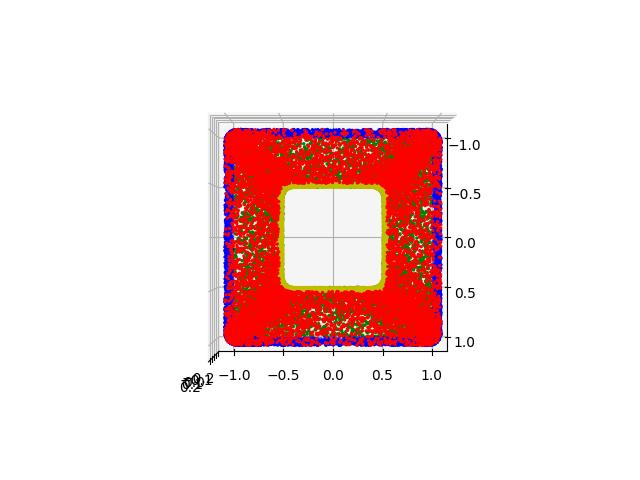
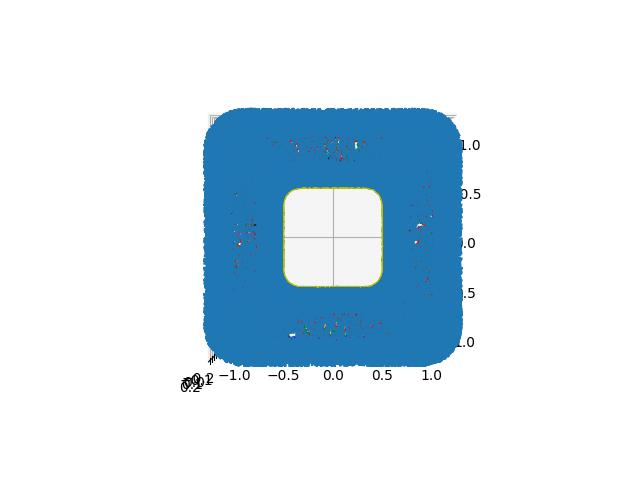
update

Changed region(s): [[0.3125, 0.2188, 0.75, 0.7812]]

diff --git a/magnetostatic_ring_3d.py b/magnetostatic_ring_3d.py
@@ -14,7 +14,7 @@ from jax.config import config
 config.update("jax_enable_x64", True)
 
 R = 0.5
-re = 0.2
+re = 0.32
 h = R
 flux = 1.0
 knots2d = np.array([ [[1-R,0],[1,0]] , [[1-R,1-R-re],[1,1-re]] , [[1-R,1-R],[1,1]] , [[1-R-re,1-R],[1-re,1]] , [[-1+R+re,1-R],[-1+re,1]] , [[-1+R,1-R],[-1,1]] , [[-1+R,1-R-re],[-1,1-re]] , [[-1+R,-1+R+re],[-1,-1+re]] , [[-1+R,-1+R],[-1,-1]] , [[-1+R+re,-1+R],[-1+re,-1]] , [[1-R-re,-1+R],[1-re,-1]] , [[1-R,-1+R],[1,-1]] , [[1-R,-1+R+re],[1,-1+re]] , [[1-R,0],[1,0]] ])
@@ -42,7 +42,7 @@ fig = plt.figure()
 ax = plt.axes(projection ="3d")
 ax.scatter3D(knots[...,0].flatten(), knots[...,1].flatten(), knots[...,2].flatten())
  
-x_in = geom.sample_inside(12000)
+x_in,w_in = geom.importance_sampling(12000)
 geom1 = geom[0.0,:,:]
 geom2 = geom[1.0,:,:]
 geom3 = geom[:,:,0.0]
@@ -51,10 +51,17 @@ x_bd1, x_bdn1 = geom1.importance_sampling(9000)
 x_bd2, x_bdn2 = geom2.importance_sampling(9000)
 x_bd3, x_bdn3 = geom3.importance_sampling(9000)
 x_bd4, x_bdn4 = geom4.importance_sampling(9000)
+surface = lambda vs: np.sum(np.sqrt(np.sum(vs**2,-1)))
+x_bdn1 /=surface(x_bdn1)
+x_bdn2 /=surface(x_bdn2)
+x_bdn3 /=surface(x_bdn3)*10
+x_bdn4 /=surface(x_bdn4)
 x_bd = np.concatenate((x_bd1, x_bd2, x_bd3, x_bd4), 0)
-x_bdn = np.concatenate((x_bdn1, x_bdn2, x_bdn3, x_bdn4), 0)
 
-xflux, vflux = geom[:,0.0,:].importance_sampling(10000)
+x_bdn = np.concatenate((x_bdn1, x_bdn2, x_bdn3, x_bdn4), 0)
+# x_bdn = pinns.geometry.normalize(x_bdn)
+
+xflux, vflux = geom[0.5,:,0.5].importance_sampling(10000)
 
 
 geom1 = geom[0.1,:,1.0]
@@ -65,7 +72,8 @@ ax.scatter3D(x_bd1[...,0].flatten(), x_bd1[...,1].flatten(), x_bd1[...,2].flatte
 ax.scatter3D(x_bd2[...,0].flatten(), x_bd2[...,1].flatten(), x_bd2[...,2].flatten(),s=2, c='g')
 ax.scatter3D(x_bd3[...,0].flatten(), x_bd3[...,1].flatten(), x_bd3[...,2].flatten(),s=2, c='b')
 ax.scatter3D(x_bd4[...,0].flatten(), x_bd4[...,1].flatten(), x_bd4[...,2].flatten(),s=2, c='y')
-# ax.quiver(x_bd3[...,0].flatten(), x_bd3[...,1].flatten(), x_bd3[...,2].flatten(),x_bdn3[...,0].flatten(), x_bdn3[...,1].flatten(), x_bdn3[...,2].flatten(), length = 0.2, normalize = True)
+ax.scatter3D(xflux[:,0],xflux[:,1],xflux[:,2], s= 2, c = 'k')
+ax.quiver(x_bd[...,0].flatten(), x_bd[...,1].flatten(), x_bd[...,2].flatten(),x_bdn[...,0].flatten(), x_bdn[...,1].flatten(), x_bdn[...,2].flatten(), length = 0.2, normalize = True)
 ax.view_init(90,0)
 plt.savefig('3dplot.jpg')
 
@@ -78,19 +86,19 @@ class Model(pinns.PINN):
         super().__init__()
         self.key = rand_key
         self.points = points
-        nl = 16
+        nl = 32
         activation = stax.Tanh #  stax.elementwise(lambda x: jnp.tanh(x)*x)
         block = stax.serial(stax.FanOut(2),stax.parallel(stax.serial(stax.Dense(nl), activation, stax.Dense(nl), activation),stax.Dense(nl)),stax.FanInSum)
         #self.add_neural_network('Az', stax.serial(stax.Dense(10), stax.Tanh, stax.Dense(10), stax.Tanh, stax.Dense(10), stax.Tanh, stax.Dense(10), stax.Tanh, stax.Dense(1)), (-1,2))
         #self.add_neural_network('H', stax.serial(stax.Dense(10), stax.Tanh, stax.Dense(10), stax.Tanh, stax.Dense(10), stax.Tanh, stax.Dense(10), stax.Tanh, stax.Dense(2)), (-1,2))
-        self.add_neural_network('B',stax.serial(block,block,block,block,block,block,block,block,stax.Dense(nl), activation,stax.Dense(3)),(-1,3))
+        self.add_neural_network('B',stax.serial(block,block,block,block,block,stax.Dense(nl), activation,stax.Dense(3)),(-1,3))
         #self.add_neural_network('H',stax.serial(stax.Dense(nl), stax.Tanh,block,block,block,block,block,block,stax.Dense(nl), stax.Tanh,stax.Dense(nl), stax.Tanh, stax.Dense(nl), stax.Tanh,stax.Dense(3)),(-1,3))
         
     def loss(self, ws):
         
         Bbd = jnp.sum(self.neural_networks['B'](ws['B'],self.points['pts_bd'])*self.points['normals'], -1)
         # Hbd = jnp.sum(self.neural_networks['H'](ws['H'],self.points['pts_bd'])*self.points['normals'], -1)
-        lbd_B = jnp.mean(Bbd**2)
+        lbd_B = jnp.sum(Bbd**2)
         # lbd_H = jnp.mean(Hbd**2)
         
         mu = 1
@@ -102,8 +110,8 @@ class Model(pinns.PINN):
         lpde1 = jnp.mean((pinns.operators.curl3d(lambda x: (1/mu)*self.neural_networks['B'](ws['B'],x))(model.points['pts_in']))**2)
         lpde2 = jnp.mean((pinns.operators.divergence(lambda x: self.neural_networks['B'](ws['B'],x))(model.points['pts_in']))**2)
         
-        lflux = (jnp.sum(self.neural_networks['B'](ws['B'],self.points['pts_flux'])*self.points['nflux'])-0.1)**2
-        return 1*(lpde1+lpde2)+10*lbd_B+10*lflux 
+        lflux = (jnp.sum(self.neural_networks['B'](ws['B'],self.points['pts_flux'])*self.points['nflux'])-1)**2
+        return 1*(lpde1+lpde2)+1000*lbd_B+10*lflux 
 
 rnd_key = jax.random.PRNGKey(123)
 
@@ -122,7 +130,7 @@ print('Starting optimization')
 tme = datetime.datetime.now()
 #results = jax.scipy.optimize.minimize(loss_grad, x0 = weights_vector, method = 'bfgs', options = {'maxiter': 10})
 #result = scipy.optimize.minimize(loss_grad, x0 = w0.to_py(), method = 'BFGS', jac = True, tol = 1e-8, options = {'disp' : True, 'maxiter' : 4000}, callback = lambda x: print(loss_compiled(x)))
-result = scipy.optimize.minimize(loss_grad, x0 = w0.to_py(), method = 'L-BFGS-B', jac = True, tol = 1e-9, options = {'disp' : True, 'maxiter' : 4000, 'iprint': 1})
+result = scipy.optimize.minimize(loss_grad, x0 = w0.to_py(), method = 'L-BFGS-B', jac = True, tol = 1e-9, options = {'disp' : True, 'maxiter' : 8000, 'iprint': 1})
 weights = model.weights_unravel(jnp.array(result.x))
 tme = datetime.datetime.now() - tme
 
@@ -147,7 +155,7 @@ ax = plt.axes(projection ="3d")
 ax.quiver(xyz[:,0].flatten(), xyz[:,1].flatten(), xyz[:,2].flatten(),B[:,0].flatten(), B[:,1].flatten(), B[:,2].flatten(),colors = plt.cm.jet(np.sqrt(np.sum(B**2,-1))),normalize = True, length = 0.1)
 plt.savefig('3dplot.jpg')
 
-x,y,z = np.meshgrid(np.array([0.5]),np.linspace(0,1,80),np.linspace(0,1,4))
+x,y,z = np.meshgrid(np.array([0.5]),np.linspace(0,1,80),np.linspace(0,1,8))
 xyz = geom(np.concatenate((x.flatten()[:,None],y.flatten()[:,None],z.flatten()[:,None]),1))
 
 B = model.neural_networks['B'](weights['B'], xyz)

diff --git a/magnetostatic_ring_2d_ritz.py b/magnetostatic_ring_2d_ritz.py
@@ -32,9 +32,9 @@ geom = pinns.geometry.PatchNURBS([basis1, basis2], knots, weights, None)
 plt.figure()
 plt.scatter(knots[:,:,0].flatten(),knots[:,:,1].flatten())
 
-x_in = geom.sample_inside(2000)
-x_bd1,_ = geom.sample_boundary(1,0,500)
-x_bd2,_ = geom.sample_boundary(1,1,500)
+x_in, ws_in = geom.importance_sampling(10000)
+x_bd1,_ = geom[:,0].importance_sampling(500)
+x_bd2,_ = geom[:,1].importance_sampling(500)
 
 plt.figure()
 plt.scatter(x_in[:,0],x_in[:,1],s=1,c='b')
@@ -53,7 +53,7 @@ class Model(pinns.PINN):
         #self.add_neural_network('Az', stax.serial(stax.Dense(nl), stax.Tanh, stax.Dense(nl), stax.Tanh, stax.Dense(nl), stax.Tanh, stax.Dense(nl), stax.Tanh, stax.Dense(1)), (-1,2))
         #self.add_neural_network('H', stax.serial(stax.Dense(nl), stax.Tanh, stax.Dense(nl), stax.Tanh, stax.Dense(nl), stax.Tanh, stax.Dense(nl), stax.Tanh, stax.Dense(2)), (-1,2))
         self.add_neural_network('Az',stax.serial(block(),block(),block(),block(),block(),block(),block(),block(),block(),block(),block(),block(),stax.Tanh,stax.Dense(1)),(-1,2))
-        self.add_neural_network('H',stax.serial(block(),block(),block(),block(),block(),block(),block(),block(),block(),block(),block(),block(),stax.Tanh,stax.Dense(2)),(-1,2))
+        # self.add_neural_network('H',stax.serial(block(),block(),block(),block(),block(),block(),block(),block(),block(),block(),block(),block(),stax.Tanh,stax.Dense(2)),(-1,2))
     
     def nu(self, B):
         x = B[:,0]**2+B[:,1]**2
@@ -65,21 +65,18 @@ class Model(pinns.PINN):
 
     def loss(self, ws):
         
-        lbd_in = (jnp.mean((self.neural_networks['Az'](ws['Az'], model.points['pts_bd_in'])[:,0] - 0)**2))
-        lbd_out = (jnp.mean((self.neural_networks['Az'](ws['Az'], model.points['pts_bd_out'])[:,0] - 1.0)**2))
+        lbd_in = (jnp.mean((self.neural_networks['Az'](ws['Az'], self.points['pts_bd_in'])[:,0] - 0)**2))
+        lbd_out = (jnp.mean((self.neural_networks['Az'](ws['Az'], self.points['pts_bd_out'])[:,0] - 1.0)**2))
         
+        grad = pinns.operators.gradient(lambda x : self.neural_networks['Az'](ws['Az'],x))(self.points['pts_in'])
+        nu = 1/3
+        lpde = 0.5*nu*jnp.sum(jnp.sum(grad*grad,-1)*self.points['ws_in'])
 
-        Mat = jnp.array([[0.0,1.0],[-1.0,0.0]])
-        B = pinns.operators.jacobian_modified(lambda x: self.neural_networks['Az'](ws['Az'],x),Mat)(model.points['pts_inside'])
-        lmaterial = jnp.mean((self.nu(B)*B-self.neural_networks['H'](ws['H'], model.points['pts_inside']))**2)
-        
-        lpde = jnp.mean((pinns.operators.curl2d(lambda x: self.neural_networks['H'](ws['H'],x))(model.points['pts_inside']))**2)
-        
-        return 1*lpde+lmaterial+10*lbd_in+10*lbd_out
+        return 1*lpde+10*lbd_in+10*lbd_out
 
 rnd_key = jax.random.PRNGKey(123)
 
-model = Model(rnd_key, {'pts_bd_in' : x_bd1, 'pts_bd_out' : x_bd2, 'pts_inside' : x_in})
+model = Model(rnd_key, {'pts_bd_in' : x_bd1, 'pts_bd_out' : x_bd2, 'pts_in' : x_in, 'ws_in' : ws_in})
 
 w0 = model.init_unravel()
 

diff --git a/quad_2d.py b/quad_2d.py
@@ -1,3 +1,5 @@
+from base64 import b16decode
+from sunau import AUDIO_FILE_ENCODING_ADPCM_G721
 import numpy as np
 import jax
 import jax.numpy as jnp
@@ -29,15 +31,25 @@ def create_geometry(key, scale = 1):
     blc = hi-hc                                                           
     rm = (Dc*Dc+hc*hc-ri*ri)/(Dc*np.sqrt(2)+hc*np.sqrt(2)-2*ri)                 
     R = rm-ri
-
+    O = np.array([rm/np.sqrt(2),rm/np.sqrt(2)])
+    alpha1 = -np.pi*3/4       
+    alpha2 = np.math.asin((hc-rm/np.sqrt(2))/R)
+    alpha = np.abs(alpha2-alpha1)
+    
+    A = np.array([[O[0] - ri/np.sqrt(2), O[1] - ri/np.sqrt(2)], [O[0] - Dc, O[1] - hc]])
+    b = np.array([[A[0,0]*ri/np.sqrt(2)+A[0,1]*ri/np.sqrt(2)],[A[1,0]*Dc+A[1,1]*hc]])
+    C = np.linalg.solve(A,b)
+    
     knots1 = np.array([[Do,0],[Do,Do * np.tan(np.pi/8)],[Do/np.sqrt(2),Do/np.sqrt(2)],[rm/np.sqrt(2),rm/np.sqrt(2)],[ri/np.sqrt(2),ri/np.sqrt(2)]])
     #knots2 = np.array([[Dc,hc],[Dc+blc,hi],[Di-bli,hi],[Di,hi-bli],[Di,0]])
     knots2 = np.array([[Di,0],[Di,hi-bli],[Di-bli,hi],[Dc+blc,hi],[Dc,hc]])
-    knots = np.concatenate((knots1[None,...],knots2[None,...]),0)
+    knots3 = (knots1+knots2)/2
+    knots3[-1,:] = C.flatten()
+    knots = np.concatenate((knots1[None,...],knots3[None,...],knots2[None,...]),0)
     weights = np.ones(knots.shape[:2])
-    
-    basis2 = pinns.bspline.BSplineBasis(np.linspace(0,1,4),1)
-    basis1 = pinns.bspline.BSplineBasis(np.array([0,1]),1)
+    weights[1,-1] = np.sin((np.pi-alpha)/2)
+    basis2 = pinns.bspline.BSplineBasis(np.linspace(0,1,5),1)
+    basis1 = pinns.bspline.BSplineBasis(np.array([0,1]),2)
 
     geom1 = pinns.geometry.PatchNURBS([basis1, basis2], knots, weights, key)
    
@@ -49,15 +61,28 @@ def create_geometry(key, scale = 1):
 
     geom2 = pinns.geometry.PatchNURBS([basis1, basis2], knots2, weights, key)
    
-    return  geom1, geom2, None 
+    knots = np.array([ [ [0,0] , [Dc/2,0] , [Dc,0] ] , [ [ri/np.sqrt(2),ri/np.sqrt(2)] , [C[0,0],C[1,0]] , [Dc,hc] ]])
+    
+    basis1 = pinns.bspline.BSplineBasis(np.linspace(0,1,2),1)
+    basis2 = pinns.bspline.BSplineBasis(np.array([0,1]),2)
+    
+    weights = np.ones(knots.shape[:2])
+    weights[1,1]
+    geom3 = pinns.geometry.PatchNURBS([basis1, basis2], knots, weights, key)
+     
+    return  geom1, geom2, geom3 
 
 geom1, geom2, geom3 = create_geometry(rnd_key)
 
-pts = geom2.sample_inside(10000)
+pts = geom2.sample_inside(1000)
 
 plt.figure()
 plt.scatter(pts[:,0], pts[:,1], s = 1)
 
-pts = geom1.sample_inside(10000)
+pts = geom1.sample_inside(1000)
+plt.scatter(pts[:,0],pts[:,1], s = 1)
+plt.show()
+
+pts = geom3.sample_inside(1000)
 plt.scatter(pts[:,0],pts[:,1], s = 1)
 plt.show()

diff --git a/pinns/geometry.py b/pinns/geometry.py
@@ -13,6 +13,20 @@ def tangent2normal_3d(tangents):
     result3 = tangents[...,0,0]*tangents[...,1,1]-tangents[...,1,0]*tangents[...,0,1]
     return np.concatenate((result1[...,None], result2[...,None], result3[...,None]),-1)
 
+def normalize(vectors):
+    norms = np.linalg.norm(vectors,axis=-1)
+    return vectors / np.tile(norms[...,None],vectors.shape[-1])
+    
+class AffineTransformation():
+    def __init__(self, Mat, offset):
+        self.Mat = Mat
+        self.offset = offset
+    
+    def __call__(self,points):
+        return np.einsum('...j,ij->...i',points, self.Mat)+self.offset
+    
+    def metric_coefficients(self):
+        pass    
     
 class Patch():
 
